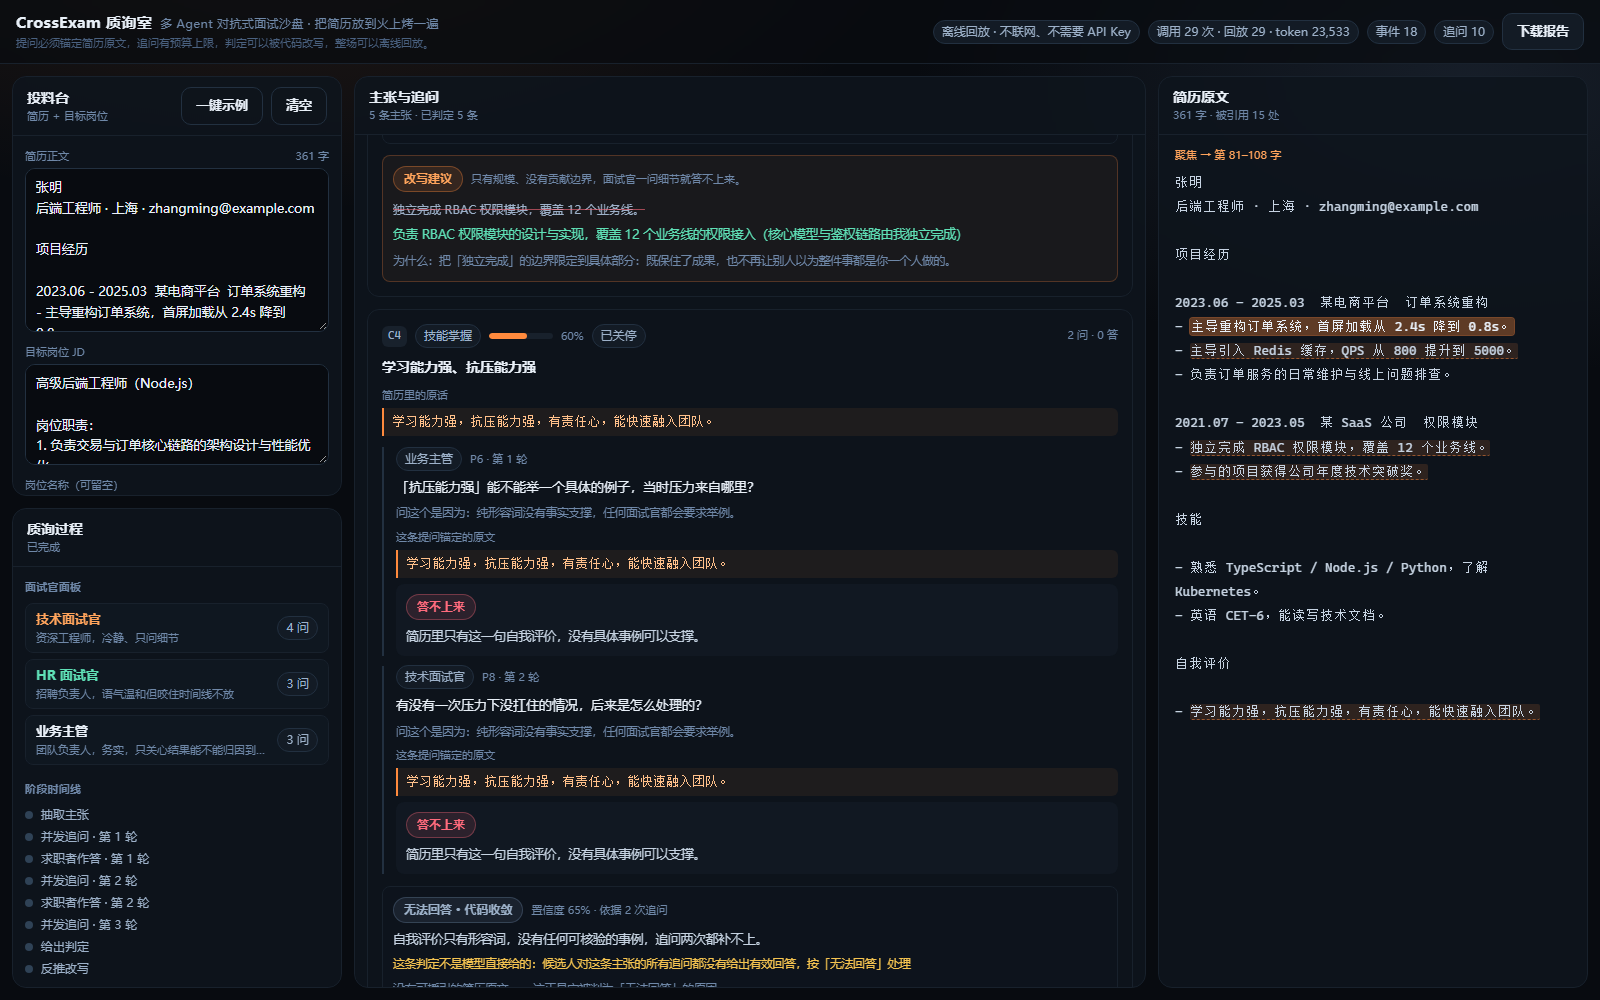
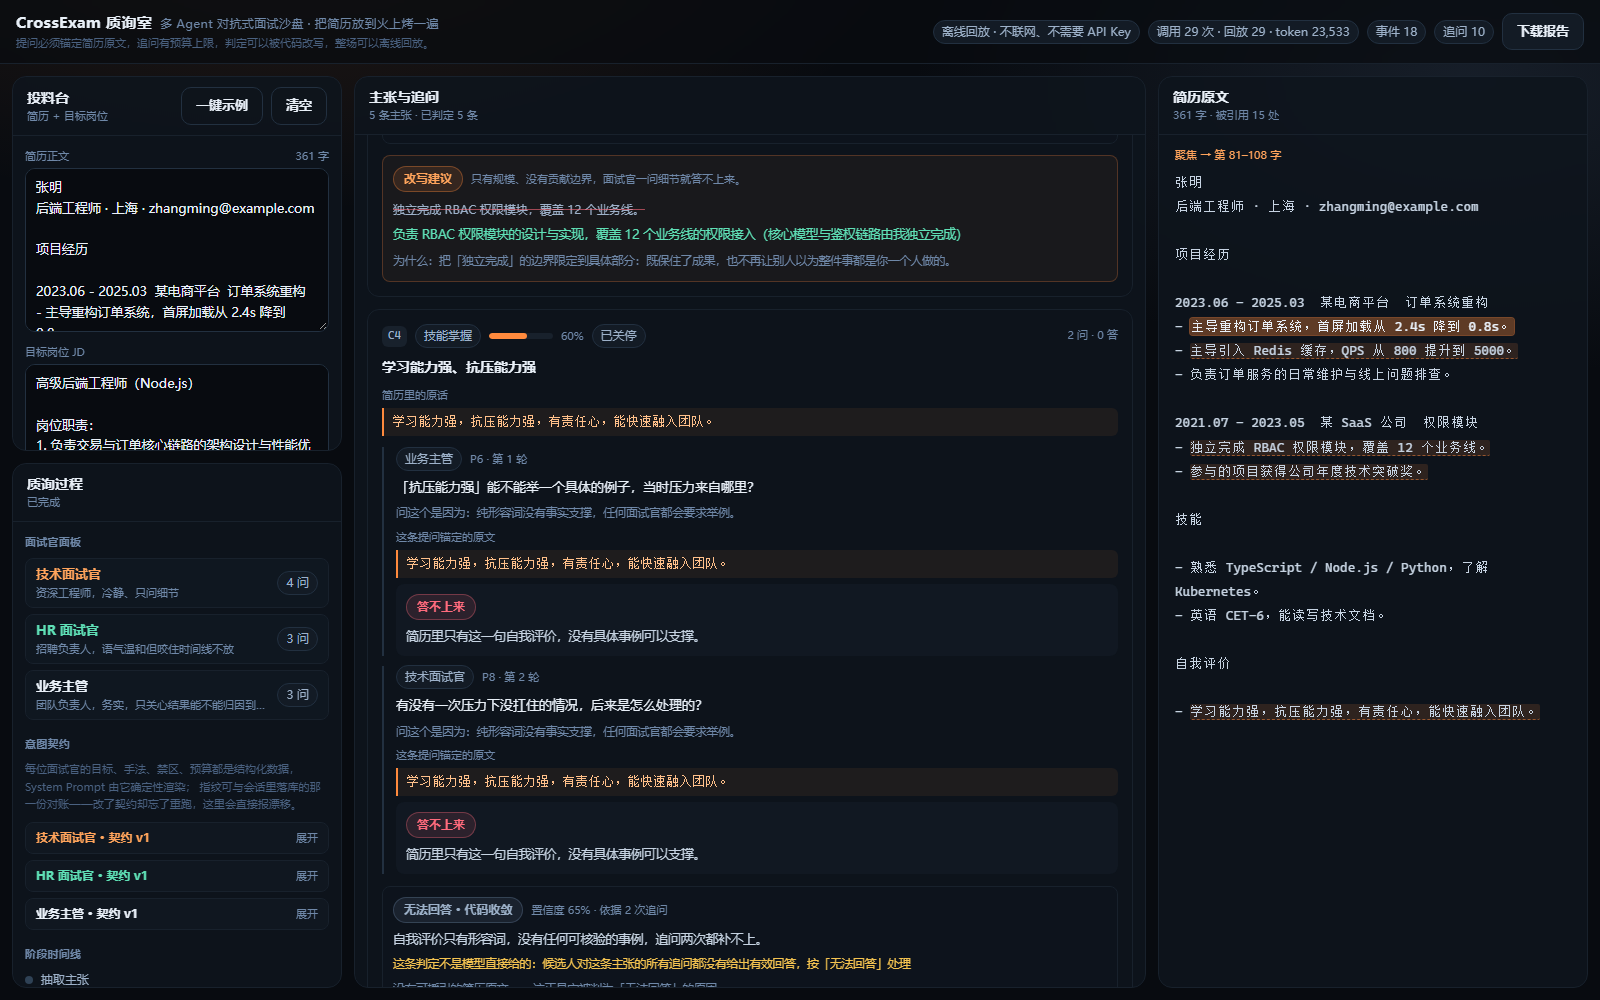
chore(tools): 截图器补契约与 System Prompt 两张图
契约可见之后 01-intake 也变了（开跑前就能看到三条 pending 契约），整批图一起重生成；控制台 0 报错。

Changed region(s): [[0.0, 0.465, 0.1875, 0.992]]

diff --git a/tools/ui-shots/README.md b/tools/ui-shots/README.md
@@ -1,6 +1,6 @@
 # tools/ui-shots —— 可复跑的界面截图
 
-一条命令，真起服务 + 真起浏览器（系统 Edge/Chrome，走 CDP），把界面每个关键状态截成 PNG。
+一条命令，真起服务 + 真起浏览器（系统 Edge/Chrome，走 CDP），把界面每个关键状态截成 9 张 PNG。
 README 配图、技术文档插图、演示视频封面都从这里出——**不是手点的图，随时能重生成**。
 
 ## 用法
@@ -27,11 +27,11 @@ macOS 与 Linux 的同名路径）。找不到就报错，不会静默跳过。
 仓库有一条硬约束：不引入需要本地编译的原生依赖。而且评委机器上大概率已经装了 Edge 或 Chrome。
 CDP 是纯 JSON 协议，Node 22 自带全局 WebSocket，于是「真浏览器验证」可以零依赖做到。
 
-## 两个踩过的坑
+## 两个踩过的坑（另有 F17/F18 记在 findings.md）
 
 1. **别用 `window.scrollTo`**：本项目的三栏布局里，滚动容器是每一栏自己的 `div`，不是 window。
    所以脚本按 `data-shot` 找到栏位，滚 `lastElementChild`（也就是 Pane 的正文容器）。
-2. **界面上的 `data-shot` 属性是给这个脚本用的稳定锚点**（`pane` 容器、三个按钮）。
+2. **界面上的 `data-shot` 属性是给这个脚本用的稳定锚点**（四栏容器、四个按钮、意图契约区块与它的展开按钮 `contract-toggle` / `contract-prompt`）。
    改界面时不要随手删——删了截图脚本会明确报「等不到界面状态」，而不是截出一堆错图。
 
 ## 它顺便是一道界面门禁

diff --git a/docs/screenshots/README.md b/docs/screenshots/README.md
@@ -15,5 +15,7 @@
 | 05-verdicts.png | 判定与反推：C5「证据缺失 · 代码收敛」并写出「这条判定不是模型直接给的」，下面是被锚定机制拦下的主张（引文在简历原文里找不到） |
 | 06-resume-focus.png | 点一条引文后右栏滚到锚点：「聚焦 → 第 81–108 字」，原文命中处高亮 |
 | 07-history.png | 左栏底部：播放节奏（即时/慢放）与历史会话列表——跑完的那一场带 `replay` 标记，可以随时翻回来重看过程 |
+| 08-contracts.png | 左栏「意图契约」：技术面试官的契约摊开（人设 / 目标 / 手法 / 禁区 / 共同约束 / 追问预算），徽章写着「与运行时一致 · 指纹 b2171c82」 |
+| 09-system-prompt.png | 同一位面试官实际拿到的 System Prompt 原文——由契约确定性渲染，界面显示的与送进模型的是同一份 |
 
 所有画面用的都是内置示例简历（合成素材），不含任何真实个人简历。
